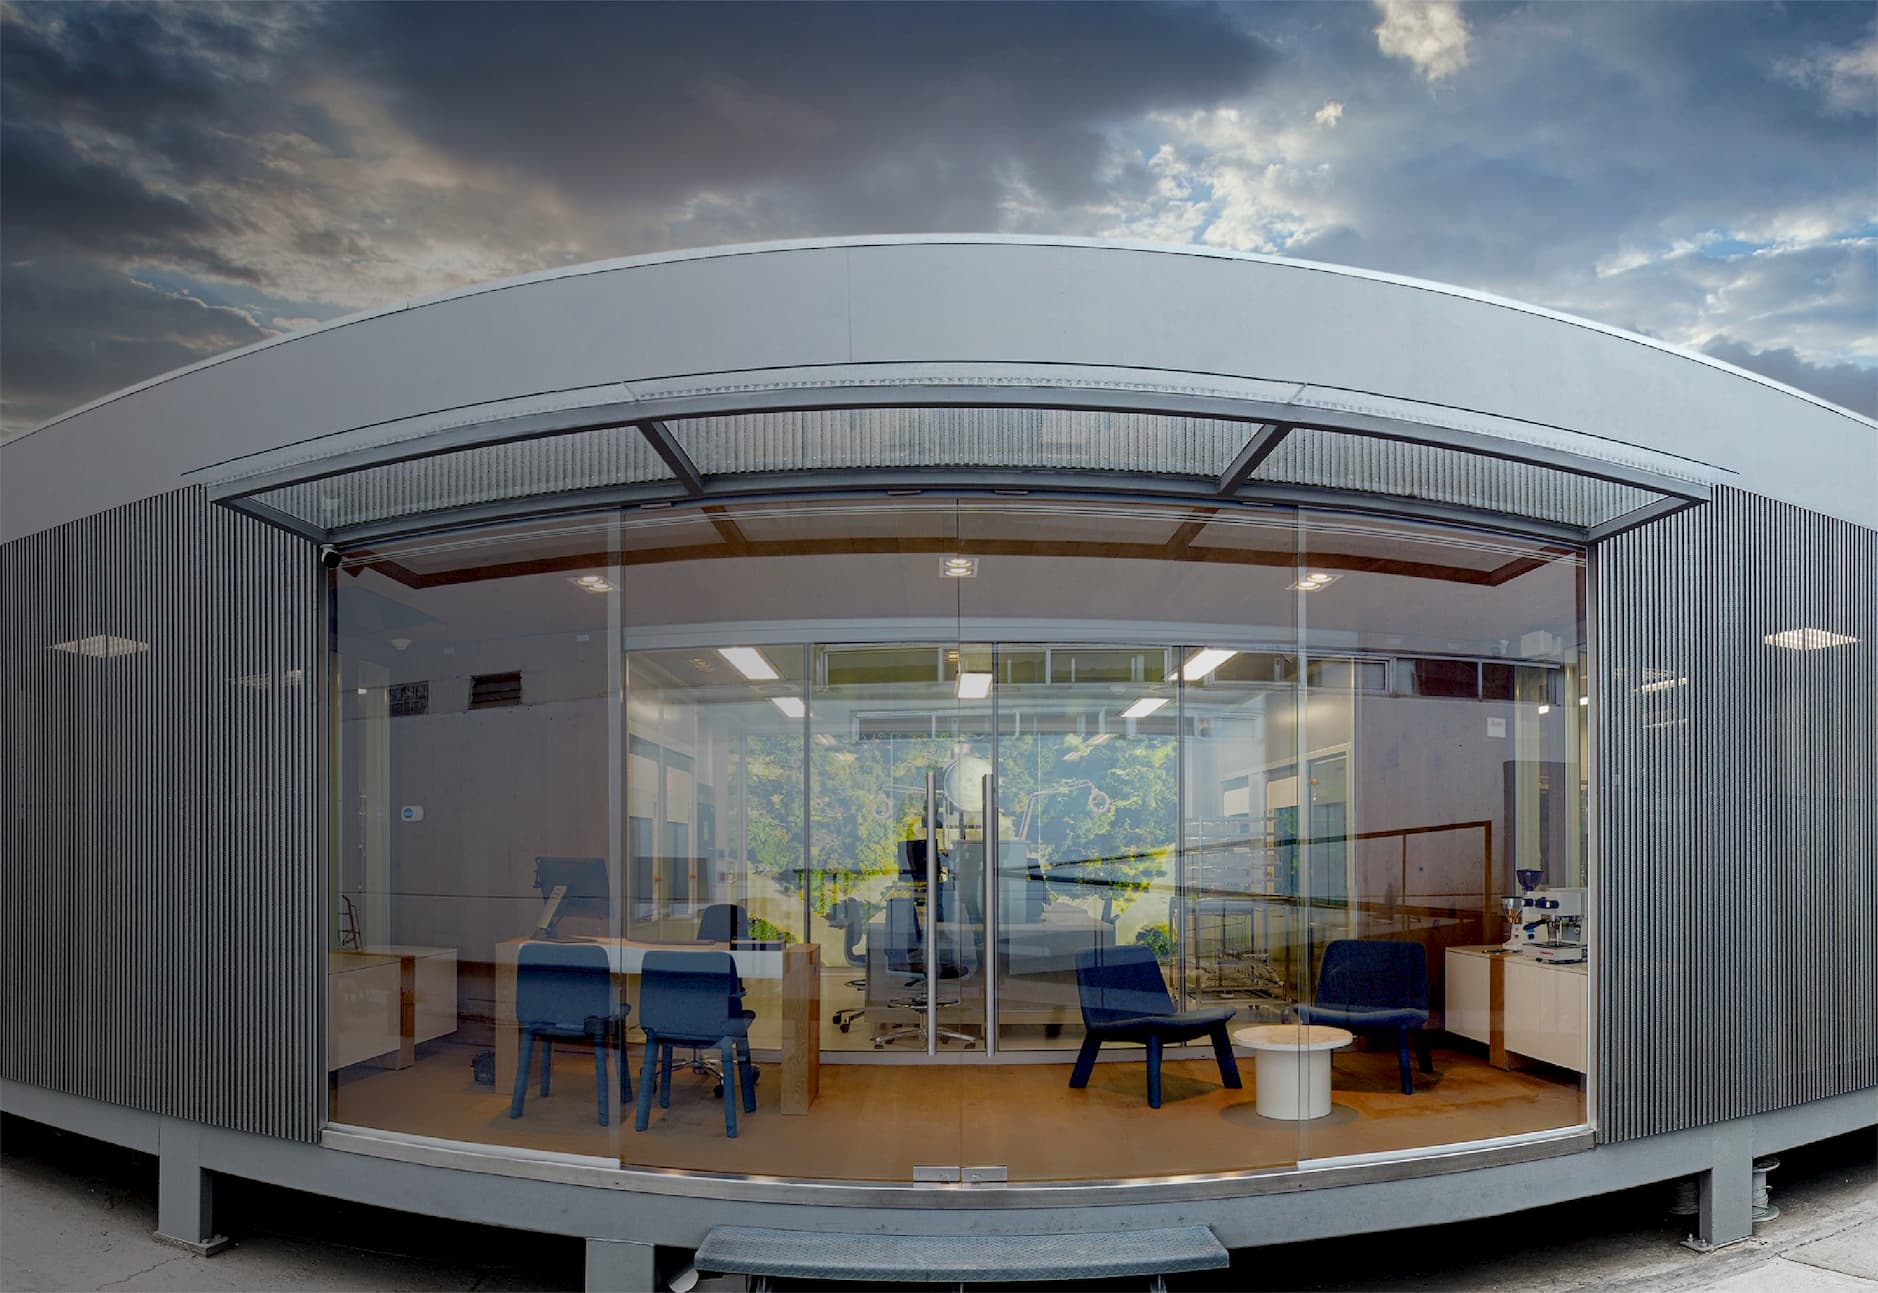
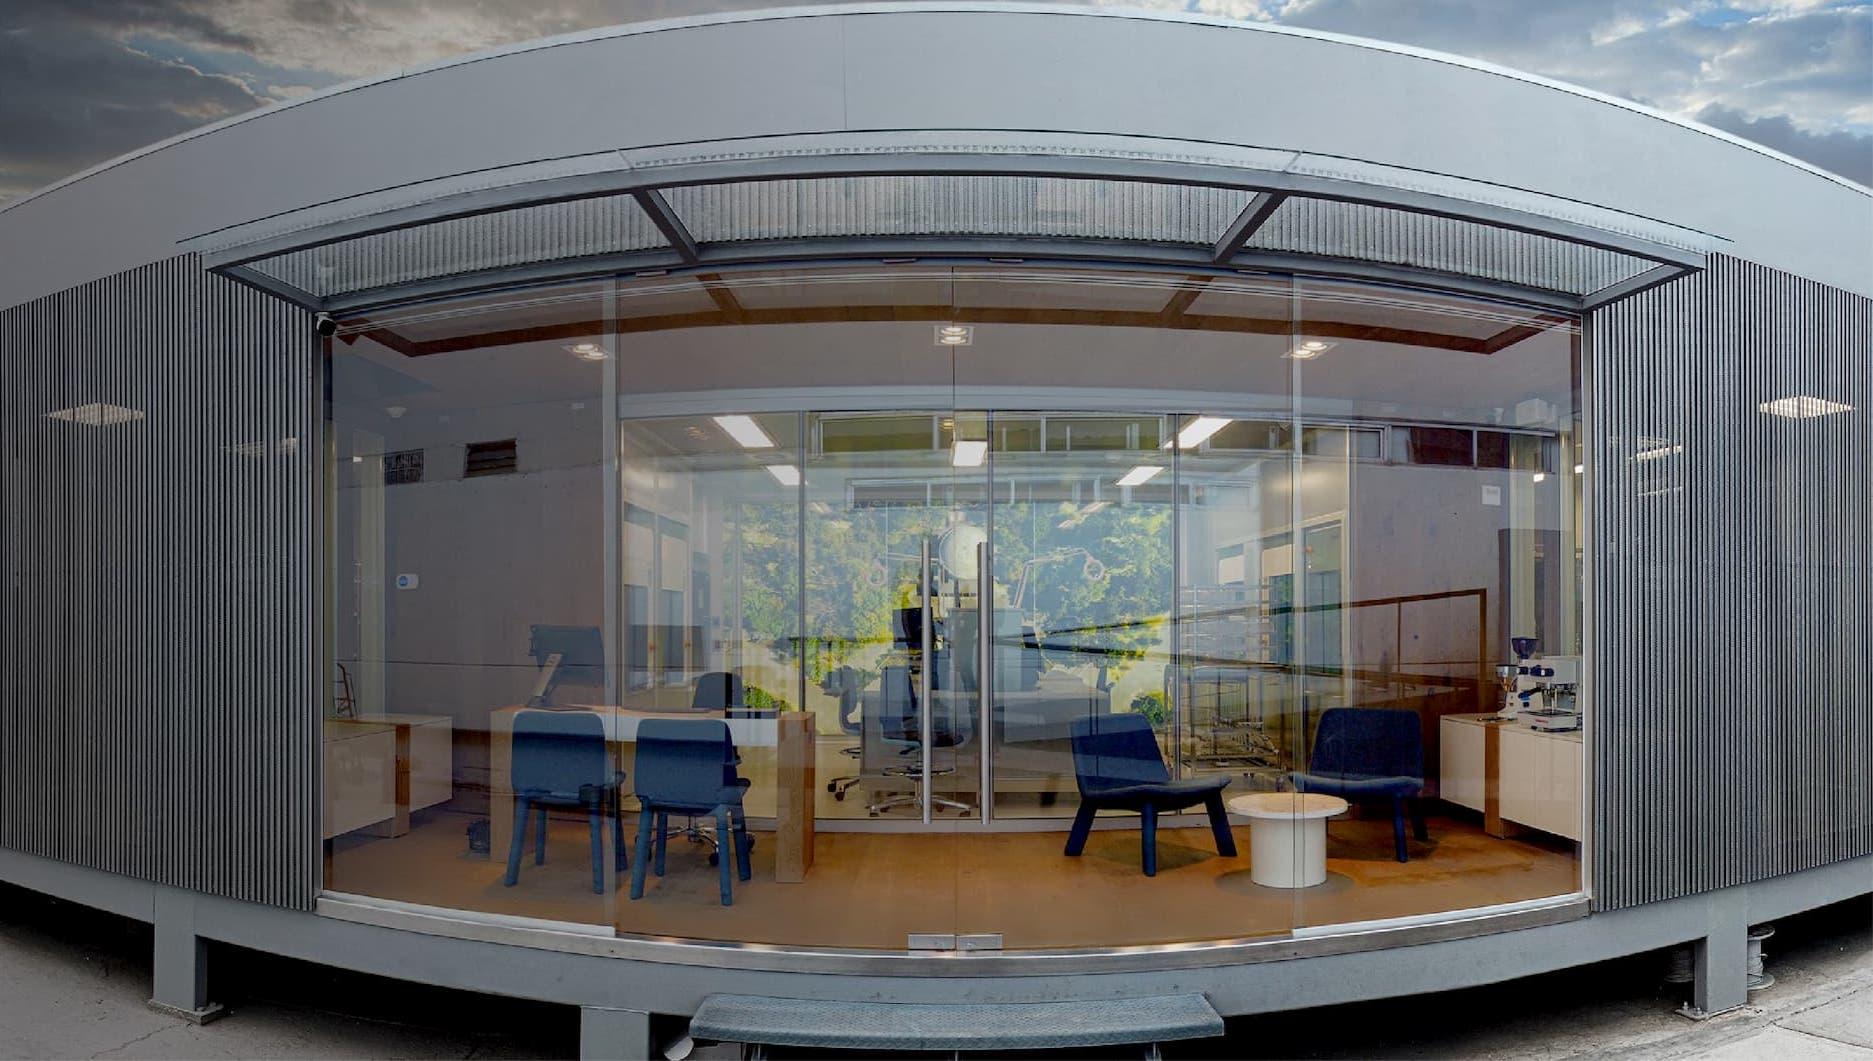
mas cambios de fotos

diff --git a/css/slider.css b/css/slider.css
@@ -138,7 +138,7 @@ li a:hover{
 .carousel-item{
 }
 .carBD{
-    max-height: 30em;
+    max-height: 40vw;
     overflow: hidden;
 }
 .vimeo-wrapper{
